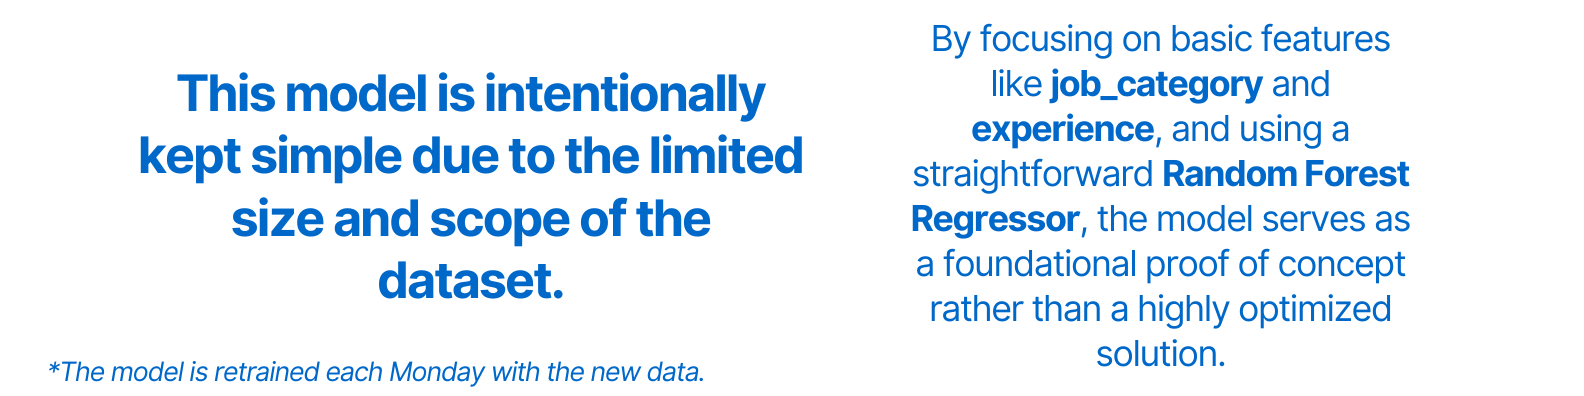
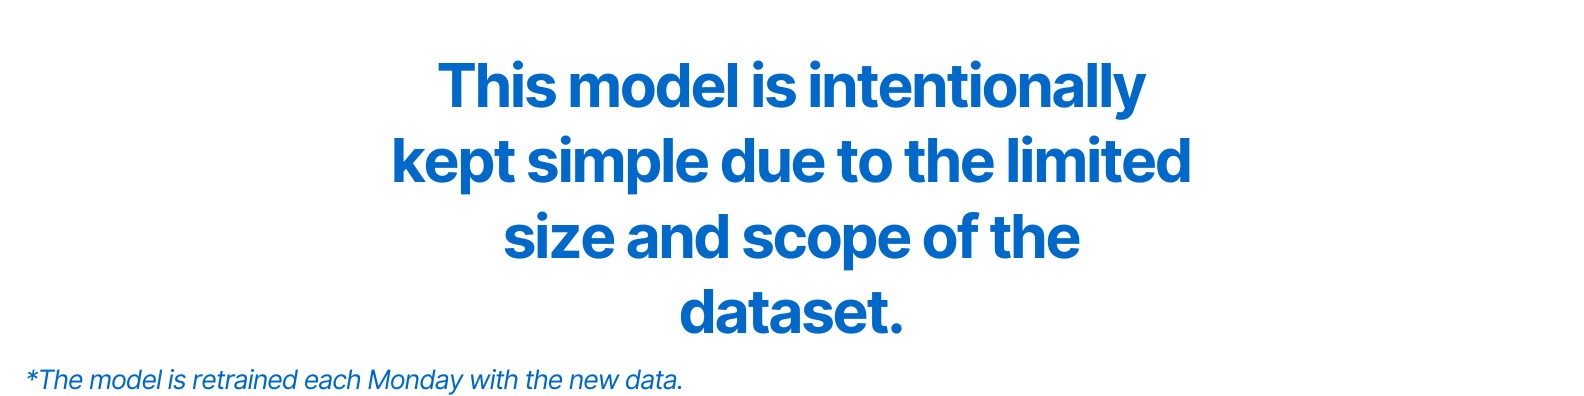
EEG_20241126

diff --git a/app/pages/salary_pred.py b/app/pages/salary_pred.py
@@ -32,6 +32,9 @@ model_exp = Image.open(model_exp_path)
 model_path = os.path.join(files_path, 'model.png')
 model = Image.open(model_path)
 
+model_2_path = os.path.join(files_path, 'model_2.png')
+model_2 = Image.open(model_2_path)
+
 
 AWS_ACCESS_KEY = os.getenv('AWS_ACCESS_KEY')
 AWS_SECRET_KEY = os.getenv('AWS_SECRET_KEY')
@@ -187,10 +190,12 @@ def predict_for_dataset(data):
     data['predicted_salary'] = predicted_salaries
     return data
 
-col1, col2, col3 = st.columns(3)
-with col1:
-    st.image(model, use_column_width=False)
-st.markdown("---")
+
+st.image(model, use_column_width=True)
+    
+
+st.image(model_2, use_column_width=True)
+
 
 col1, col2 = st.columns(2)
 with col1:  
